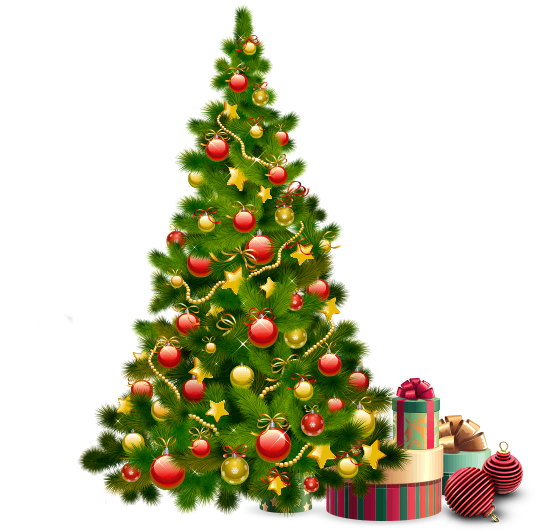
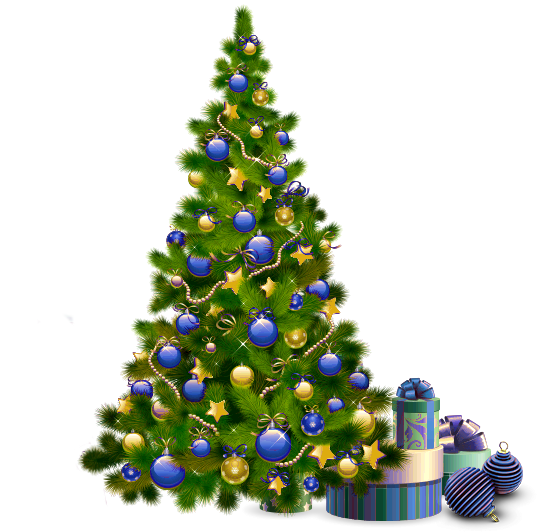
- changes from Everton (updated tree and message under) - new snow effect

diff --git a/site/assets/components/library/snowstorm/snow_canvas.js b/site/assets/components/library/snowstorm/snow_canvas.js
@@ -1,0 +1,87 @@
+$(document).ready(function(){
+    //canvas init
+    var canvas = document.getElementById("canvas");
+    var ctx = canvas.getContext("2d");
+
+    //canvas dimensions
+    var W = window.innerWidth;
+    var H = window.innerHeight;
+    canvas.width = W;
+    canvas.height = H;
+
+    //snowflake particles
+    var mp = 80; //max particles
+    var particles = [];
+    for(var i = 0; i < mp; i++)
+    {
+        particles.push({
+            x: Math.random()*W, //x-coordinate
+            y: Math.random()*H, //y-coordinate
+            r: Math.random()*4+1, //radius
+            d: Math.random()*mp //density
+        })
+    }
+
+    //Lets draw the flakes
+    function draw()
+    {
+        ctx.clearRect(0, 0, W, H);
+
+        ctx.fillStyle = "rgba(255, 255, 255, 0.8)";
+        ctx.beginPath();
+        for(var i = 0; i < mp; i++)
+        {
+            var p = particles[i];
+            ctx.moveTo(p.x, p.y);
+            ctx.arc(p.x, p.y, p.r, 0, Math.PI*2, true);
+        }
+        ctx.fill();
+        update();
+    }
+
+    //Function to move the snowflakes
+    //angle will be an ongoing incremental flag. Sin and Cos functions will be applied to it to create vertical and horizontal movements of the flakes
+    var angle = 0;
+    function update()
+    {
+        angle += 0.01;
+        for(var i = 0; i < mp; i++)
+        {
+            var p = particles[i];
+            //Updating X and Y coordinates
+            //We will add 1 to the cos function to prevent negative values which will lead flakes to move upwards
+            //Every particle has its own density which can be used to make the downward movement different for each flake
+            //Lets make it more random by adding in the radius
+            p.y += Math.cos(angle+p.d) + 1 + p.r/2;
+            p.x += Math.sin(angle) * 2;
+
+            //Sending flakes back from the top when it exits
+            //Lets make it a bit more organic and let flakes enter from the left and right also.
+            if(p.x > W+5 || p.x < -5 || p.y > H)
+            {
+                if(i%3 > 0) //66.67% of the flakes
+                {
+                    particles[i] = {x: Math.random()*W, y: -10, r: p.r, d: p.d};
+                }
+                else
+                {
+                    //If the flake is exitting from the right
+                    if(Math.sin(angle) > 0)
+                    {
+                        //Enter from the left
+                        particles[i] = {x: -5, y: Math.random()*H, r: p.r, d: p.d};
+                    }
+                    else
+                    {
+                        //Enter from the right
+                        particles[i] = {x: W+5, y: Math.random()*H, r: p.r, d: p.d};
+                    }
+                }
+            }
+        }
+    }
+
+    //animation loop
+    if ($(window).width() > 480 && !(navigator.userAgent.toLowerCase().indexOf('safari') > -1 && navigator.userAgent.toLowerCase().indexOf('chrome') == -1))
+        setInterval(draw, 33);
+});

diff --git a/site/everton/christmas-video.html b/site/everton/christmas-video.html
@@ -147,7 +147,7 @@
 				<div class="crimbo-dear"></div>
 
 				<!-- Snow Effect -->
-				<div class="snowEffect" data-snow-img="./images/crimbo/snow.png"></div>
+				<div class="snowEffect" data-snow-img="./images/crimbo/snow.png"><canvas id="canvas"></canvas></div>
 
 				<div class="tell-more"><a href="#tell-more" class="scroll-page"><p>Tell me more</p><span class="fa fa-arrow-down"></span></a></div>
 			</div>
@@ -245,9 +245,11 @@
 <script src="../assets/components/core/js/pages/christmas_campaign.js"></script>
 
 <!-- SNOW!!! -->
-<script src="../assets/components/library/snowstorm/ThreeCanvas.js"></script>
-<script src="../assets/components/library/snowstorm/Snow.js"></script>
-<script src="../assets/components/library/snowstorm/snow_init.js"></script>
+<!--<script src="../assets/components/library/snowstorm/ThreeCanvas.js"></script>-->
+<!--<script src="../assets/components/library/snowstorm/Snow.js"></script>-->
+<!--<script src="../assets/components/library/snowstorm/snow_init.js"></script>-->
+
+<script src="../assets/components/library/snowstorm/snow_canvas.js"></script>
 
 
 </body>
